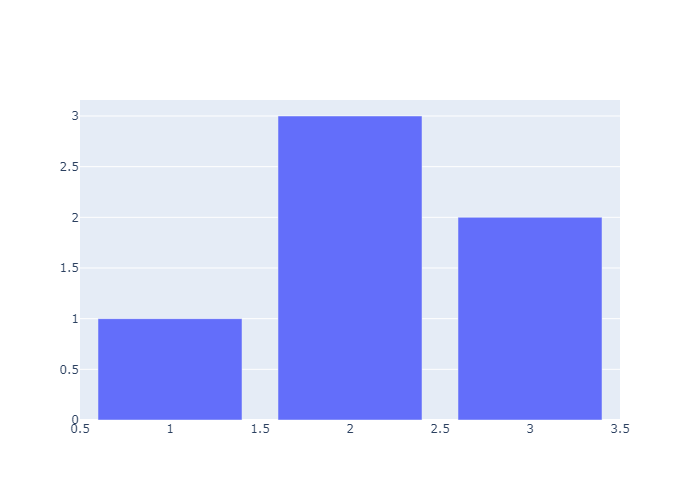
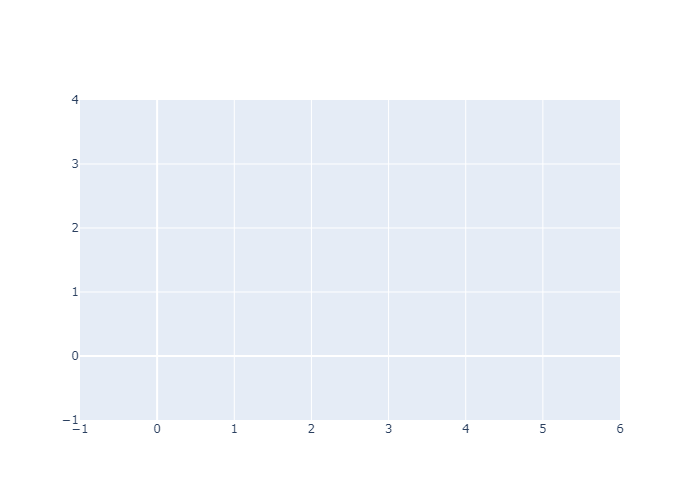
embedded plotly

diff --git a/controllers/Plot.py b/controllers/Plot.py
@@ -10,22 +10,37 @@ import numpy as np
 class PlotLy():
     def __init__(self):
 
-        z = np.linspace(0, 1, 100)
-        x = z * np.sin(25 * z)
-        y = z * np.cos(25 * z)
+    
         
-        fig = go.Figure()
-        fig.add_trace(go.Bar(x=[1, 2, 3], y=[1, 3, 2]))
-        fig.write_image("fig1.png")
-
+        self.fig = go.Figure()
+        
+        self.fig.write_image("fig1.png")
+        # self.fig.add_trace(go.Bar(x=[1, 2, 3], y=[1, 3, 2]))
 
         raw_html = '<html><head><meta charset="utf-8" />'
         raw_html += '<script src="https://cdn.plot.ly/plotly-latest.min.js"></script></head>'
         raw_html += '<body>'
-        raw_html += po.plot(fig, include_plotlyjs=False, output_type='div')
+        raw_html += po.plot(self.fig, include_plotlyjs=False, output_type='div')
         raw_html += '</body></html>'
 
         self.browser  = QWebEngineView()
+     
+        self.browser.setHtml(raw_html)
+        self.browser.show()
+        self.browser.raise_()
+
+    def graph(self):
+        z = np.linspace(0, 1, 100)
+        x = z * np.sin(25 * z)
+        y = z * np.cos(25 * z)
+        self.fig.add_trace(go.Scatter3d(x=x, y=y, z=z, mode="lines", line_color="green", line_width=3))
+   
+        raw_html = '<html><head><meta charset="utf-8" />'
+        raw_html += '<script src="https://cdn.plot.ly/plotly-latest.min.js"></script></head>'
+        raw_html += '<body>'
+        raw_html += po.plot(self.fig, include_plotlyjs=False, output_type='div')
+        raw_html += '</body></html>'
+
         self.browser.setHtml(raw_html)
         self.browser.show()
         self.browser.raise_()

diff --git a/views/GraphApp.py b/views/GraphApp.py
@@ -1,8 +1,9 @@
 
 
-from PyQt6.QtWidgets import *
+from PyQt5.QtWidgets import *
 from controllers.Graph3D import Graph3D
 from controllers.MLEngine import MLEngine
+from controllers.Plot import PlotLy
 
 class GraphApp(QWidget):
     def __init__(self): 
@@ -31,10 +32,10 @@ class GraphApp(QWidget):
         move.clicked.connect(lambda : self.graph.hide_background())
         
         #graph component
-        self.graph = Graph3D()
+        self.graph = PlotLy()
 
         #add widgets
-        self.window.addWidget(self.graph,0,0)
+        self.window.addWidget(self.graph.browser,0,0)
         self.window.addWidget(button,1,0)
         self.window.addWidget(clear,4,0)
         self.window.addWidget(move,3,0)
@@ -42,16 +43,8 @@ class GraphApp(QWidget):
 
 
     def graphNodes(self):
-        nodes = self.MLEngine.nodesDictionary(self.neuron)
-        x = []
-        y = []
-        z = []
-        for id in nodes:
-            x1,y1,z1 = nodes[id]
-            x.append(x1)
-            y.append(y1)
-            z.append(z1)
-        self.graph.scatterPlot(x,y,z)
+
+        self.graph.graph()
 
        
     def graphEdges(self):

diff --git a/main.py b/main.py
@@ -1,18 +1,19 @@
 import sys
-from PyQt6.QtCore import *
-from PyQt6.QtGui import *
-from PyQt6.QtWidgets import *
+from PyQt5.QtCore import *
+from PyQt5.QtGui import *
+from PyQt5.QtWidgets import *
 from views.GraphApp import GraphApp
 from controllers.Graph3D import Graph3D
+from controllers.Plot import PlotLy
 
 class MainApp(QTabWidget):
    def __init__(self, parent = None):
       super(MainApp, self).__init__(parent)
-      self.tab1 = QWidget()
+      tab1 = PlotLy()
       self.tab2 = Graph3D()
       self.tab3 = GraphApp()
 		
-      self.addTab(self.tab1,"Tab 1")
+      self.addTab(tab1.browser,"Tab 1")
       self.addTab(self.tab2,"Tab 2")
       self.addTab(self.tab3,"GraphApp")
       self.setWindowTitle("Main App")
